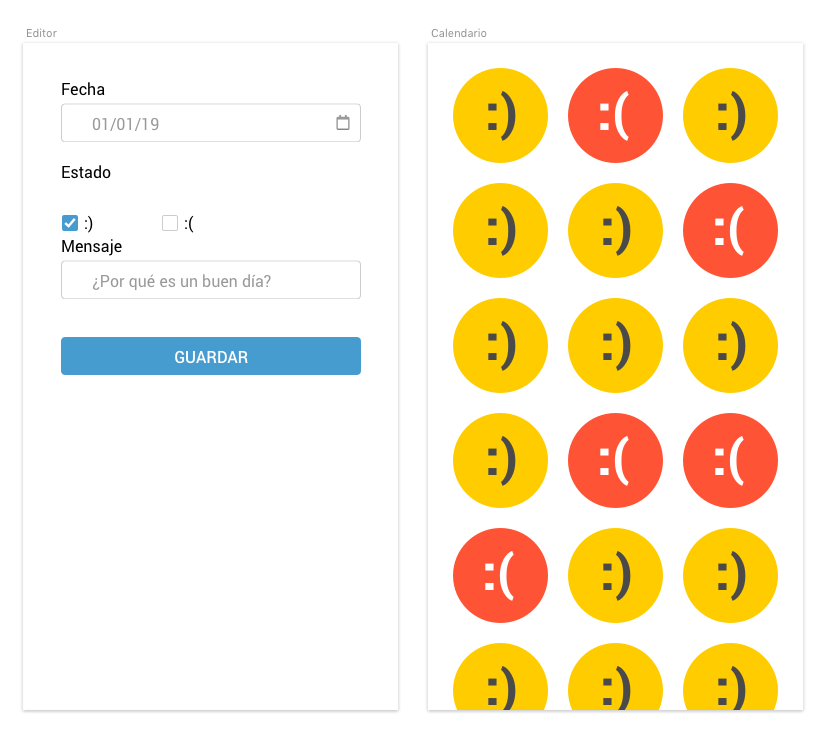
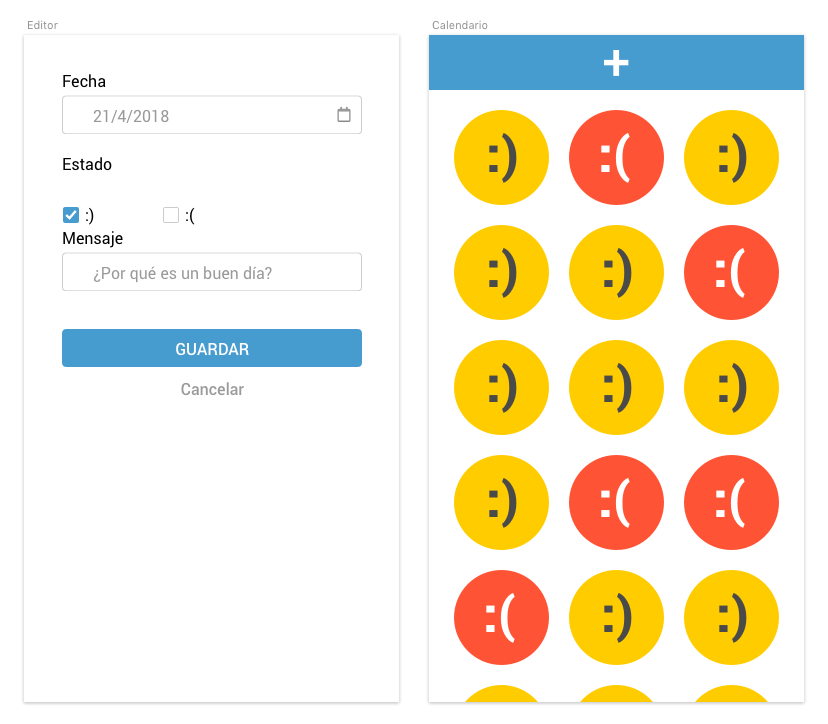
Update contents

diff --git a/formacion-continua/3_prueba_tecnica.md b/formacion-continua/3_prueba_tecnica.md
@@ -1,4 +1,4 @@
-# Prueba técnica 3: ¿Cómo ha ido el día?
+# Prueba técnica 3: ¿Cómo ha ido el día? (Parte 1)
 
 
 ## Resumen
@@ -18,6 +18,9 @@ Tendremos una serie de reglas:
 - Esta vez no es necesario gestionar los huecos (si me dejo X días sin añadir)
 - Hay dos vistas, el **editor** y el **calendario**
 - Los datos se guardarán en el [local storage](https://developer.mozilla.org/en-US/docs/Web/API/Window/localStorage) del navegador ;)
+- Navegación:
+  - Se accede al editor con el botón `+` que aparece fijo en la parte superior de la pantalla
+  - Los botónes guardar/cancelar devuelven a la vista de calendario
 
 
 ## Entrega
